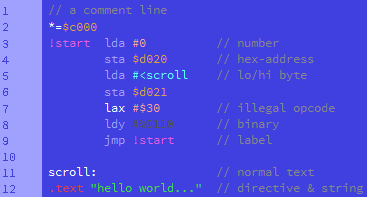
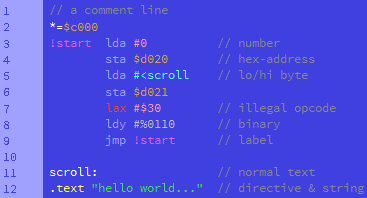
added color schemes

diff --git a/src/de/relaunch64/popelganda/Editor/ColorSchemes.java b/src/de/relaunch64/popelganda/Editor/ColorSchemes.java
@@ -50,10 +50,13 @@ public class ColorSchemes {
     public static final int SCHEME_SOLAR_LIGHT = 8;
     public static final int SCHEME_SOLAR_DARK = 9;
     public static final int SCHEME_POPELGANDA = 10;
-    public static final int SCHEME_DEFAULT_REDUCED = 11;
-    public static final int SCHEME_POPELGANDA_REDUCED = 12;
-    public static final int SCHEME_GREENBERET = 13;
-    public static final String[] SCHEME_NAMES = new String[] {"Default", "Paired", "C64", "Hello Kitty", "Dark", "Dark 2", "Blues", "GitHub", "Solarized (light)", "Solarized (dark)", "Popelganda", "Reduced (light)", "Reduced (dark)", "Green Beret"};
+    public static final int SCHEME_GREENBERET = 11;
+    public static final int SCHEME_GRAY = 12;
+    public static final int SCHEME_DEFAULT_REDUCED = 13;
+    public static final int SCHEME_POPELGANDA_REDUCED = 14;
+    public static final int SCHEME_C64_REDUCED = 15;
+
+    public static final String[] SCHEME_NAMES = new String[] {"Default", "Paired", "C64", "Hello Kitty", "Dark", "Dark 2", "Blue Max", "GitHub", "Solarized (light)", "Solarized (dark)", "Popelganda", "Green Beret", "Grayskull", "Reduced (light)", "Reduced (dark)", "Reduced (C64)"};
     
     public static final int COLOR_NORMAL = 0;
     public static final int COLOR_COMMENT = 1;
@@ -124,13 +127,13 @@ public class ColorSchemes {
                 case COLOR_STRING: return new Color(64,224,64);
                 case COLOR_NUMBER: return new Color(255,160,160);
                 case COLOR_HEX: return new Color(224,160,64);
-                case COLOR_BIN: return new Color(84,84,84);
+                case COLOR_BIN: return new Color(192,192,192);
                 case COLOR_JUMP: return new Color(224,96,224); 
                 case COLOR_LOHI: return new Color(96,255,255);
                 case COLOR_KEYWORD: return new Color(160,160,255);
-                case COLOR_COMPILERKEYWORD: return new Color(224,64,64);
+                case COLOR_COMPILERKEYWORD: return new Color(255,255,64);
                 case COLOR_SCRIPTKEYWORD: return new Color(96,255,255);
-                case COLOR_ILLEGALOPCODE: return new Color(255,255,255);
+                case COLOR_ILLEGALOPCODE: return new Color(224,64,64);
                 case BACKGROUND: return new Color(64,64,224);
                 case LINE_BACKGROUND: return new Color(160,160,255);
                 case LINE_BORDER: return new Color(160,160,255);
@@ -373,6 +376,51 @@ public class ColorSchemes {
                 case LINE_BORDER: return new Color(63,63,63);
                 case LINE_COLOR: return new Color(185,185,180);
                 case LINE_HIGHLIGHT: return new Color(255,255,255);
+            }
+        }
+        else if (SCHEME_C64_REDUCED==scheme) {
+            switch (tokentype) {
+                case COLOR_NORMAL:
+                case COLOR_KEYWORD:
+                case COLOR_SCRIPTKEYWORD:
+                case COLOR_ILLEGALOPCODE: 
+                    return new Color(160,160,255);
+                case COLOR_COMMENT: return new Color(192,192,192);
+                case COLOR_STRING: return new Color(160,255,160);
+                case COLOR_NUMBER:
+                case COLOR_HEX: 
+                case COLOR_BIN:
+                    return Color.white;
+                case COLOR_JUMP: 
+                case COLOR_LOHI: 
+                case COLOR_COMPILERKEYWORD: 
+                    return new Color(255,255,64);
+                case BACKGROUND: return new Color(64,64,224);
+                case LINE_BACKGROUND: return new Color(160,160,255);
+                case LINE_BORDER: return new Color(160,160,255);
+                case LINE_COLOR: return new Color(64,64,224); 
+                case LINE_HIGHLIGHT: return new Color(255,255,255);
+            }
+        }
+        else if (SCHEME_GRAY==scheme) {
+            switch (tokentype) {
+                case COLOR_NORMAL: return new Color(47,79,79); 
+                case COLOR_COMMENT: return new Color(189,189,189);
+                case COLOR_STRING: return new Color(136,179,136);
+                case COLOR_NUMBER: return new Color(149,149,149);
+                case COLOR_HEX: return new Color(109,130,145);
+                case COLOR_BIN: return new Color(109,130,145);
+                case COLOR_JUMP: return new Color(47,79,79); 
+                case COLOR_LOHI: return new Color(47,79,79);
+                case COLOR_KEYWORD: return new Color(108,113,128);
+                case COLOR_COMPILERKEYWORD: return new Color(99,99,99);
+                case COLOR_SCRIPTKEYWORD: return new Color(99,99,99);
+                case COLOR_ILLEGALOPCODE: return new Color(191,164,128);
+                case BACKGROUND: return new Color(245,245,245);
+                case LINE_BACKGROUND: return new Color(230,230,230); // 11,55,66
+                case LINE_BORDER: return new Color(230,230,230);
+                case LINE_COLOR: return new Color(149,149,149);
+                case LINE_HIGHLIGHT: return new Color(0,0,0);
             }
         }
         return Color.BLACK;

diff --git a/src/de/relaunch64/popelganda/util/ConstantsR64.java b/src/de/relaunch64/popelganda/util/ConstantsR64.java
@@ -87,7 +87,9 @@ public class ConstantsR64 {
         new ImageIcon(ConstantsR64.class.getResource("/de/relaunch64/popelganda/resources/img/scheme_11.png")),
         new ImageIcon(ConstantsR64.class.getResource("/de/relaunch64/popelganda/resources/img/scheme_12.png")),
         new ImageIcon(ConstantsR64.class.getResource("/de/relaunch64/popelganda/resources/img/scheme_13.png")),
-        new ImageIcon(ConstantsR64.class.getResource("/de/relaunch64/popelganda/resources/img/scheme_14.png"))
+        new ImageIcon(ConstantsR64.class.getResource("/de/relaunch64/popelganda/resources/img/scheme_14.png")),
+        new ImageIcon(ConstantsR64.class.getResource("/de/relaunch64/popelganda/resources/img/scheme_15.png")),
+        new ImageIcon(ConstantsR64.class.getResource("/de/relaunch64/popelganda/resources/img/scheme_16.png"))
     };
     
     public static final String STRING_NORMAL = "normal";

diff --git a/src/de/relaunch64/popelganda/Editor/EditorPanes.java b/src/de/relaunch64/popelganda/Editor/EditorPanes.java
@@ -602,9 +602,9 @@ public class EditorPanes {
             // get editor pane
             EditorPaneProperties ep = editorPaneArray.get(selectedTab);
             // change syntax scheme for recent docs
-            if(getActiveFilePath()!=null) {
-                int rd = settings.findRecentDoc(getActiveFilePath().getPath());
-                settings.setRecentDoc(rd, getActiveFilePath().getPath(), compiler, script);
+            if(getFilePath(selectedTab)!=null) {
+                int rd = settings.findRecentDoc(getFilePath(selectedTab).getPath());
+                settings.setRecentDoc(rd, getFilePath(selectedTab).getPath(), compiler, script);
             }
             // disable undo/redo events
             // ep.getUndoManager().enableRegisterUndoEvents(false);

diff --git a/README.md b/README.md
@@ -15,6 +15,7 @@ Relaunch64 3.0.1
 * added checkboxes for whole-word and match-case search
 * added syntax highlighting for scripting commands (Kick Assembler, 64tass)
 * added new syntax highlighting color schemes
+* slight modification of C64 scheme
 
 ### Bug fixes
 * bug fix with "Jump to label" function with Kick Assembler
